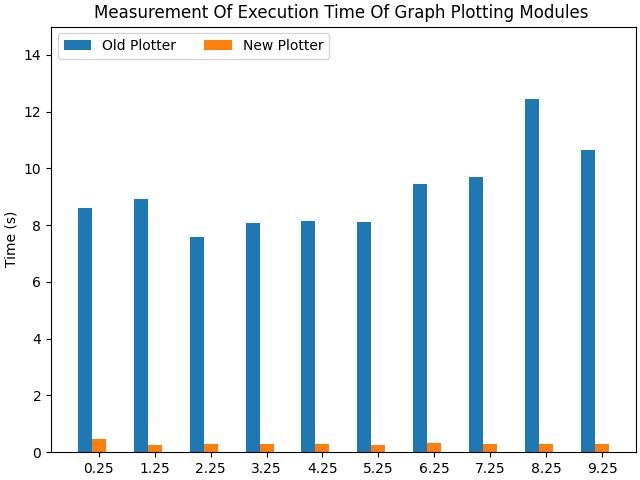
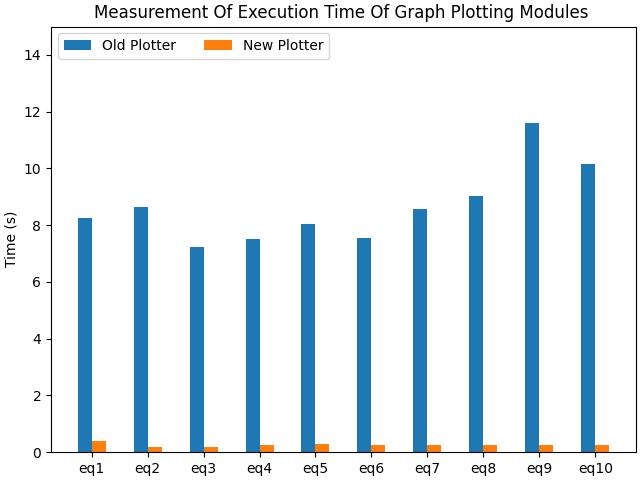
a better collected data

diff --git a/exec_time_analysis/exec_time_analysis.py b/exec_time_analysis/exec_time_analysis.py
@@ -122,7 +122,8 @@ for attribute, measurement in data.items():
 
 ax.set_ylabel('Time (s)')
 ax.set_title('Measurement Of Execution Time Of Graph Plotting Modules ')
-ax.set_xticks(x + width)
+ax.set_xticks(x + (width / 2))
+ax.set_xticklabels(['eq' + str(i) for i in range(1, 11)])
 ax.legend(loc='upper left', ncols=2)
 ax.set_ylim(0, 15)
 
